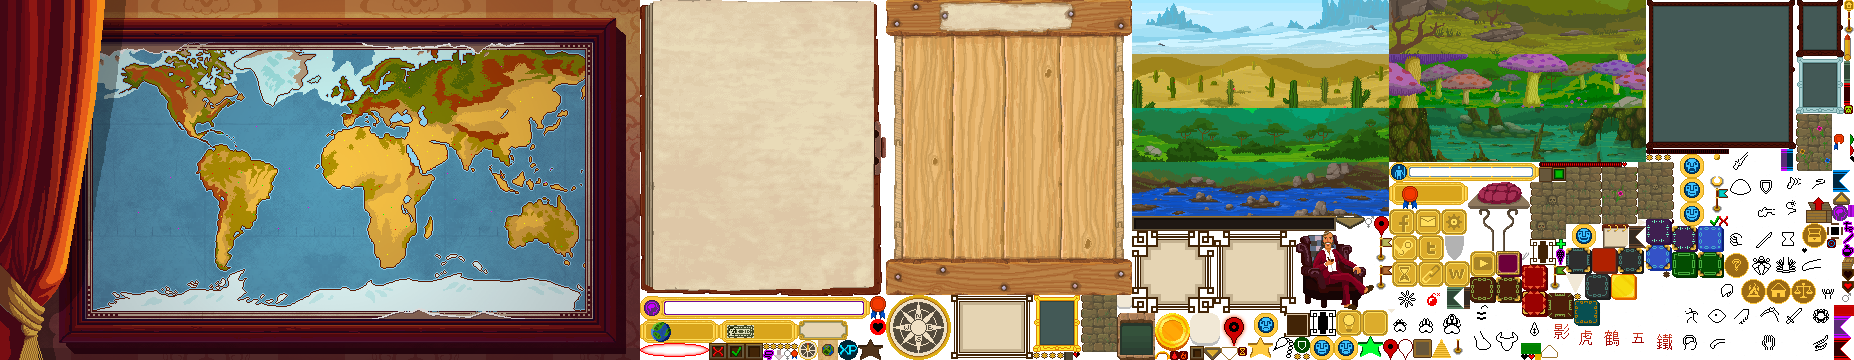
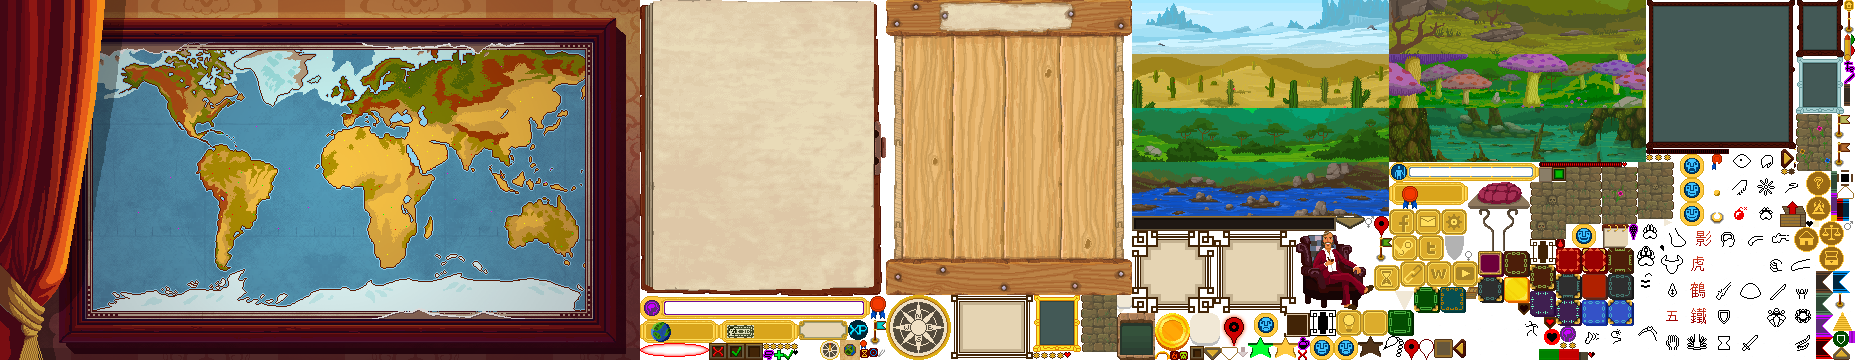
1.3.8.5

diff --git a/conf/game.conf.js b/conf/game.conf.js
@@ -420,7 +420,7 @@ var staticConfig =
   enableAchievements: true,
   showMods: true,
   showReport: false,
-  footerName: "1.3.8.1",
+  footerName: "1.3.8.5",
   sanityCheckEvents: true,
 
   // is converted to config.diaryText at run-time

diff --git a/changes.md b/changes.md
@@ -6,6 +6,7 @@
   * Adjusted Jungle Rot icon
   * The New Game gallery now can have multiple pages of explorers if more than 20 are unlocked
     * Can now have multiple custom explorers unlocked at once
+    * The random character option is now the first one
 * Modding
   * Tile Border Sprites can now be modded, just add a borderSprites section to your tile (full documentation coming soon)
   * Improved warnings that are printed to the log when mod content contains errors
@@ -38,6 +39,8 @@
   * Fixed crash when entering item screen with mods that add items enabled
   * Fix for being stuck in a location if a mod has set the leave event to be invalid
   * Fix for the game not loading if an image is referenced by multiple sprites
+  * Fix for compass not displaying correctly after loading a saved expedition
+  * Compass is no longer 100% in the first expedition (unless playing on Easy)
 
 # 1.3.7 (April 5th, 2018)
 
